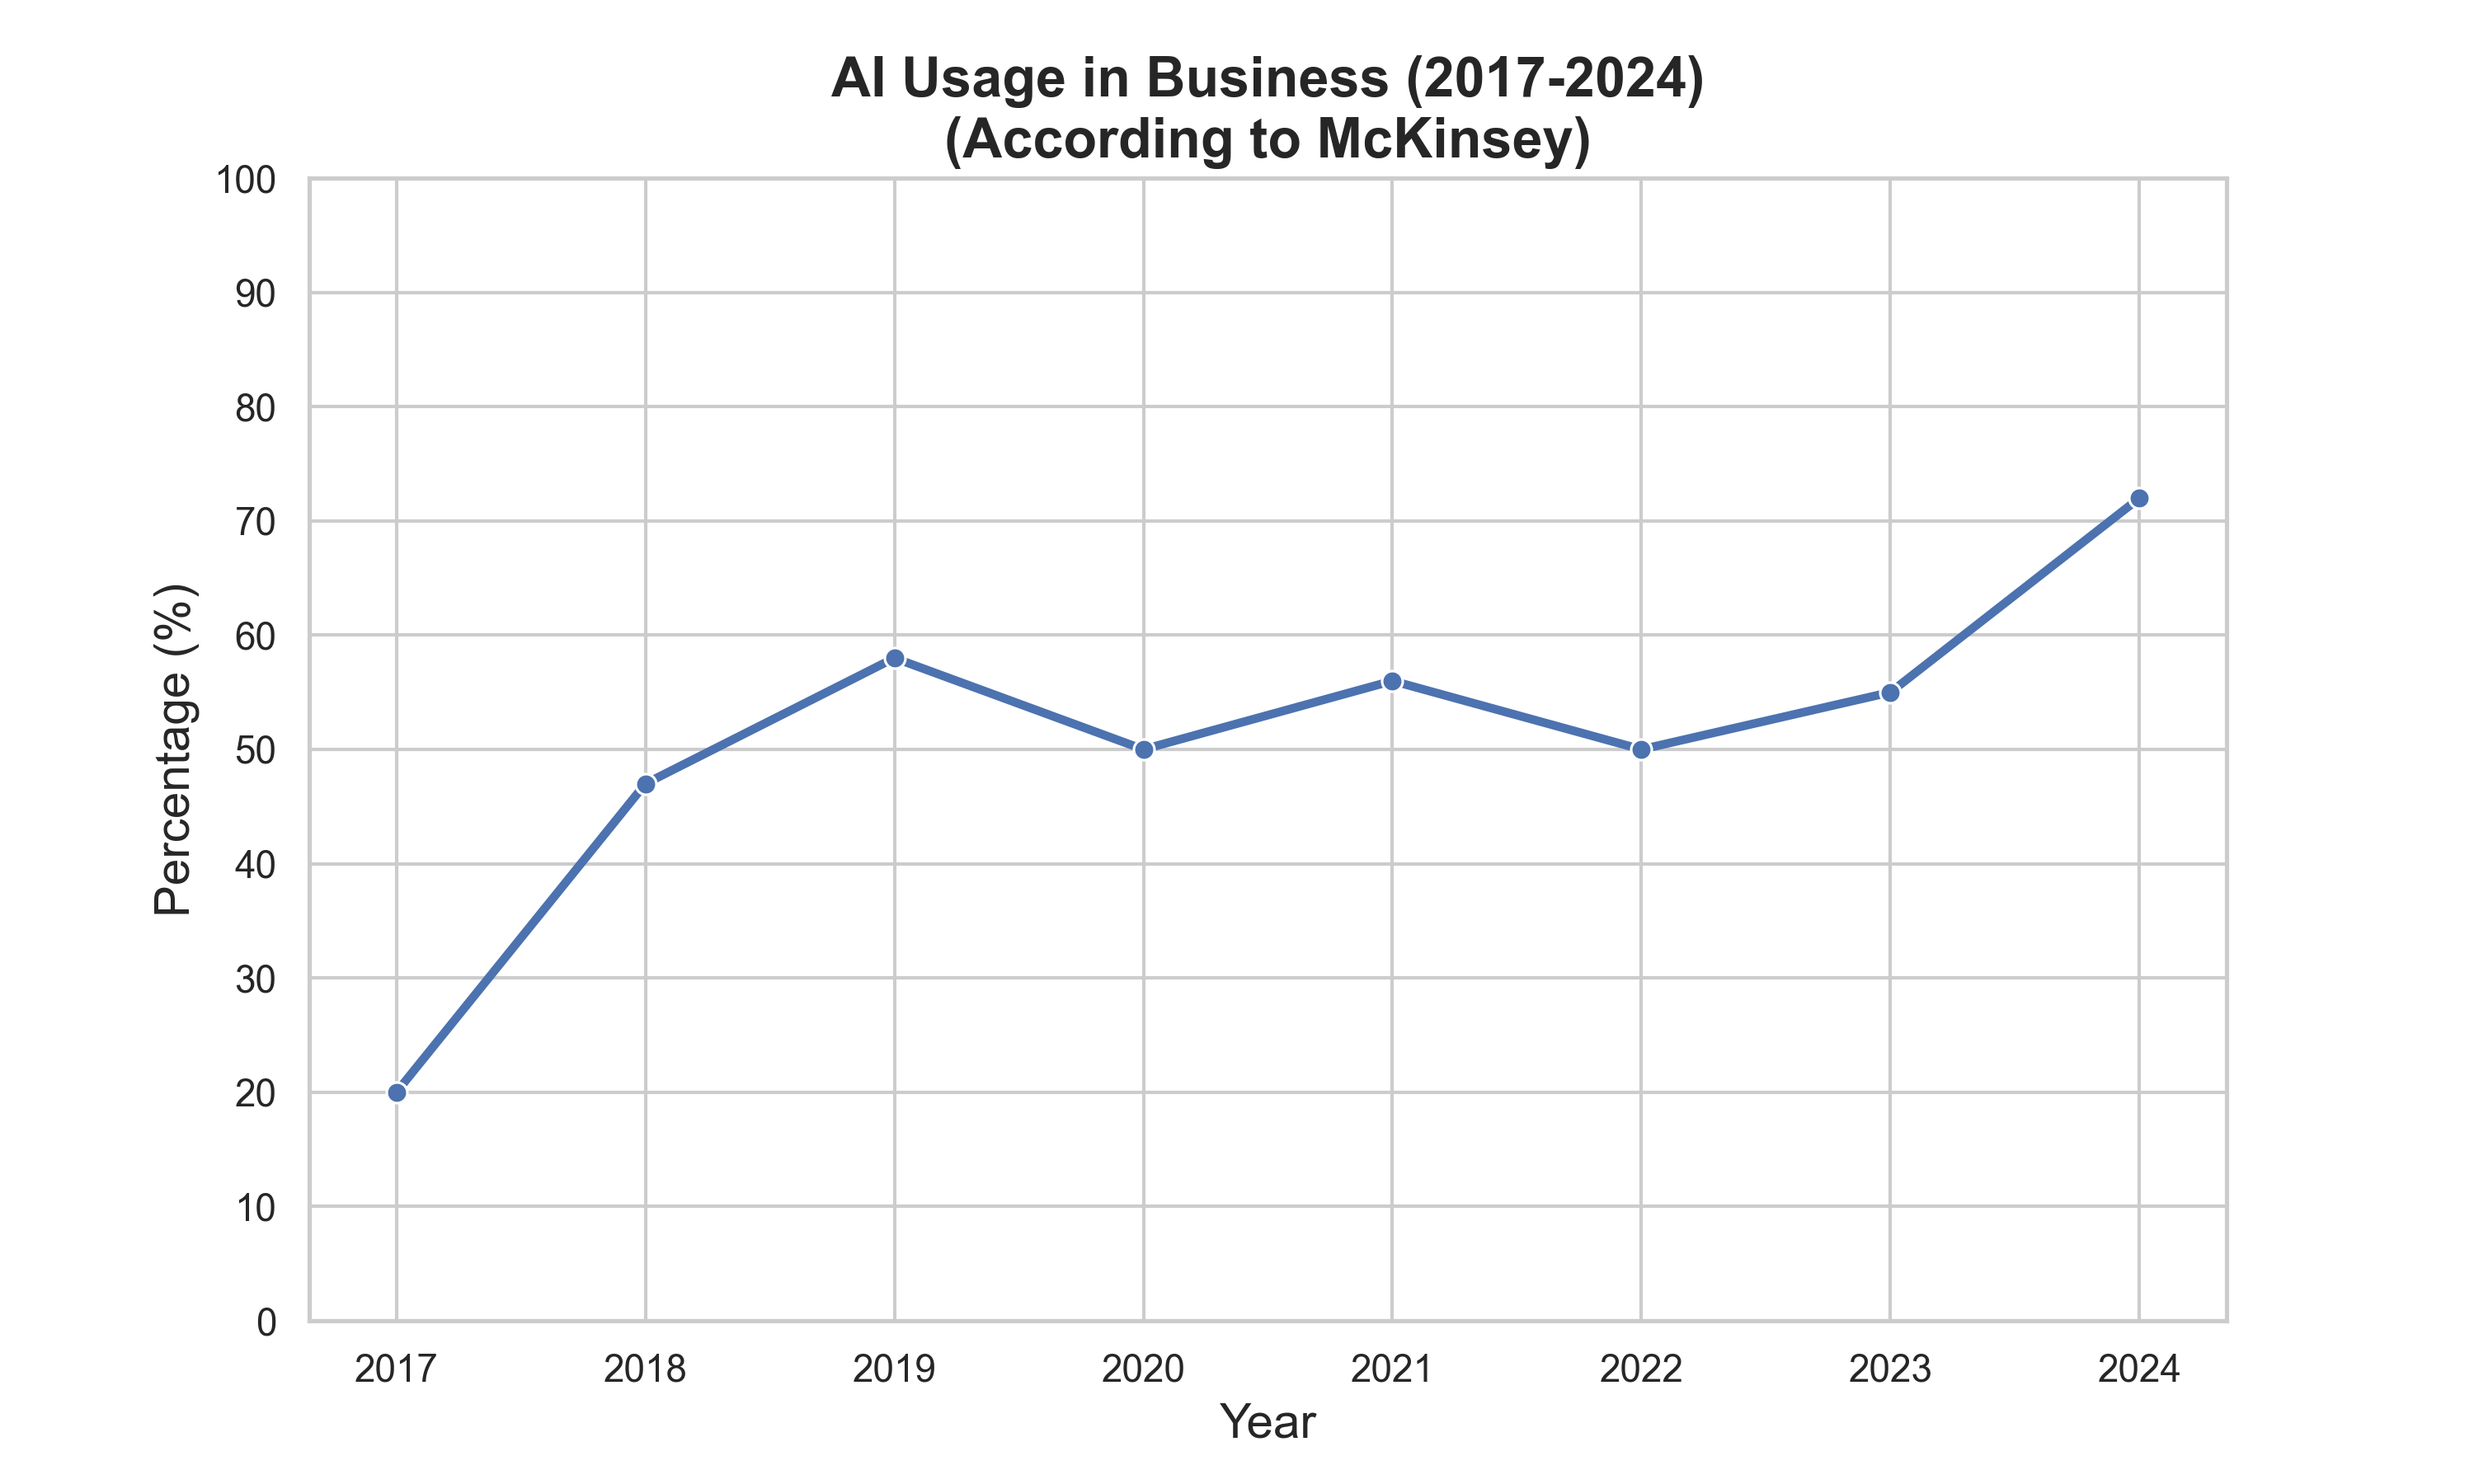
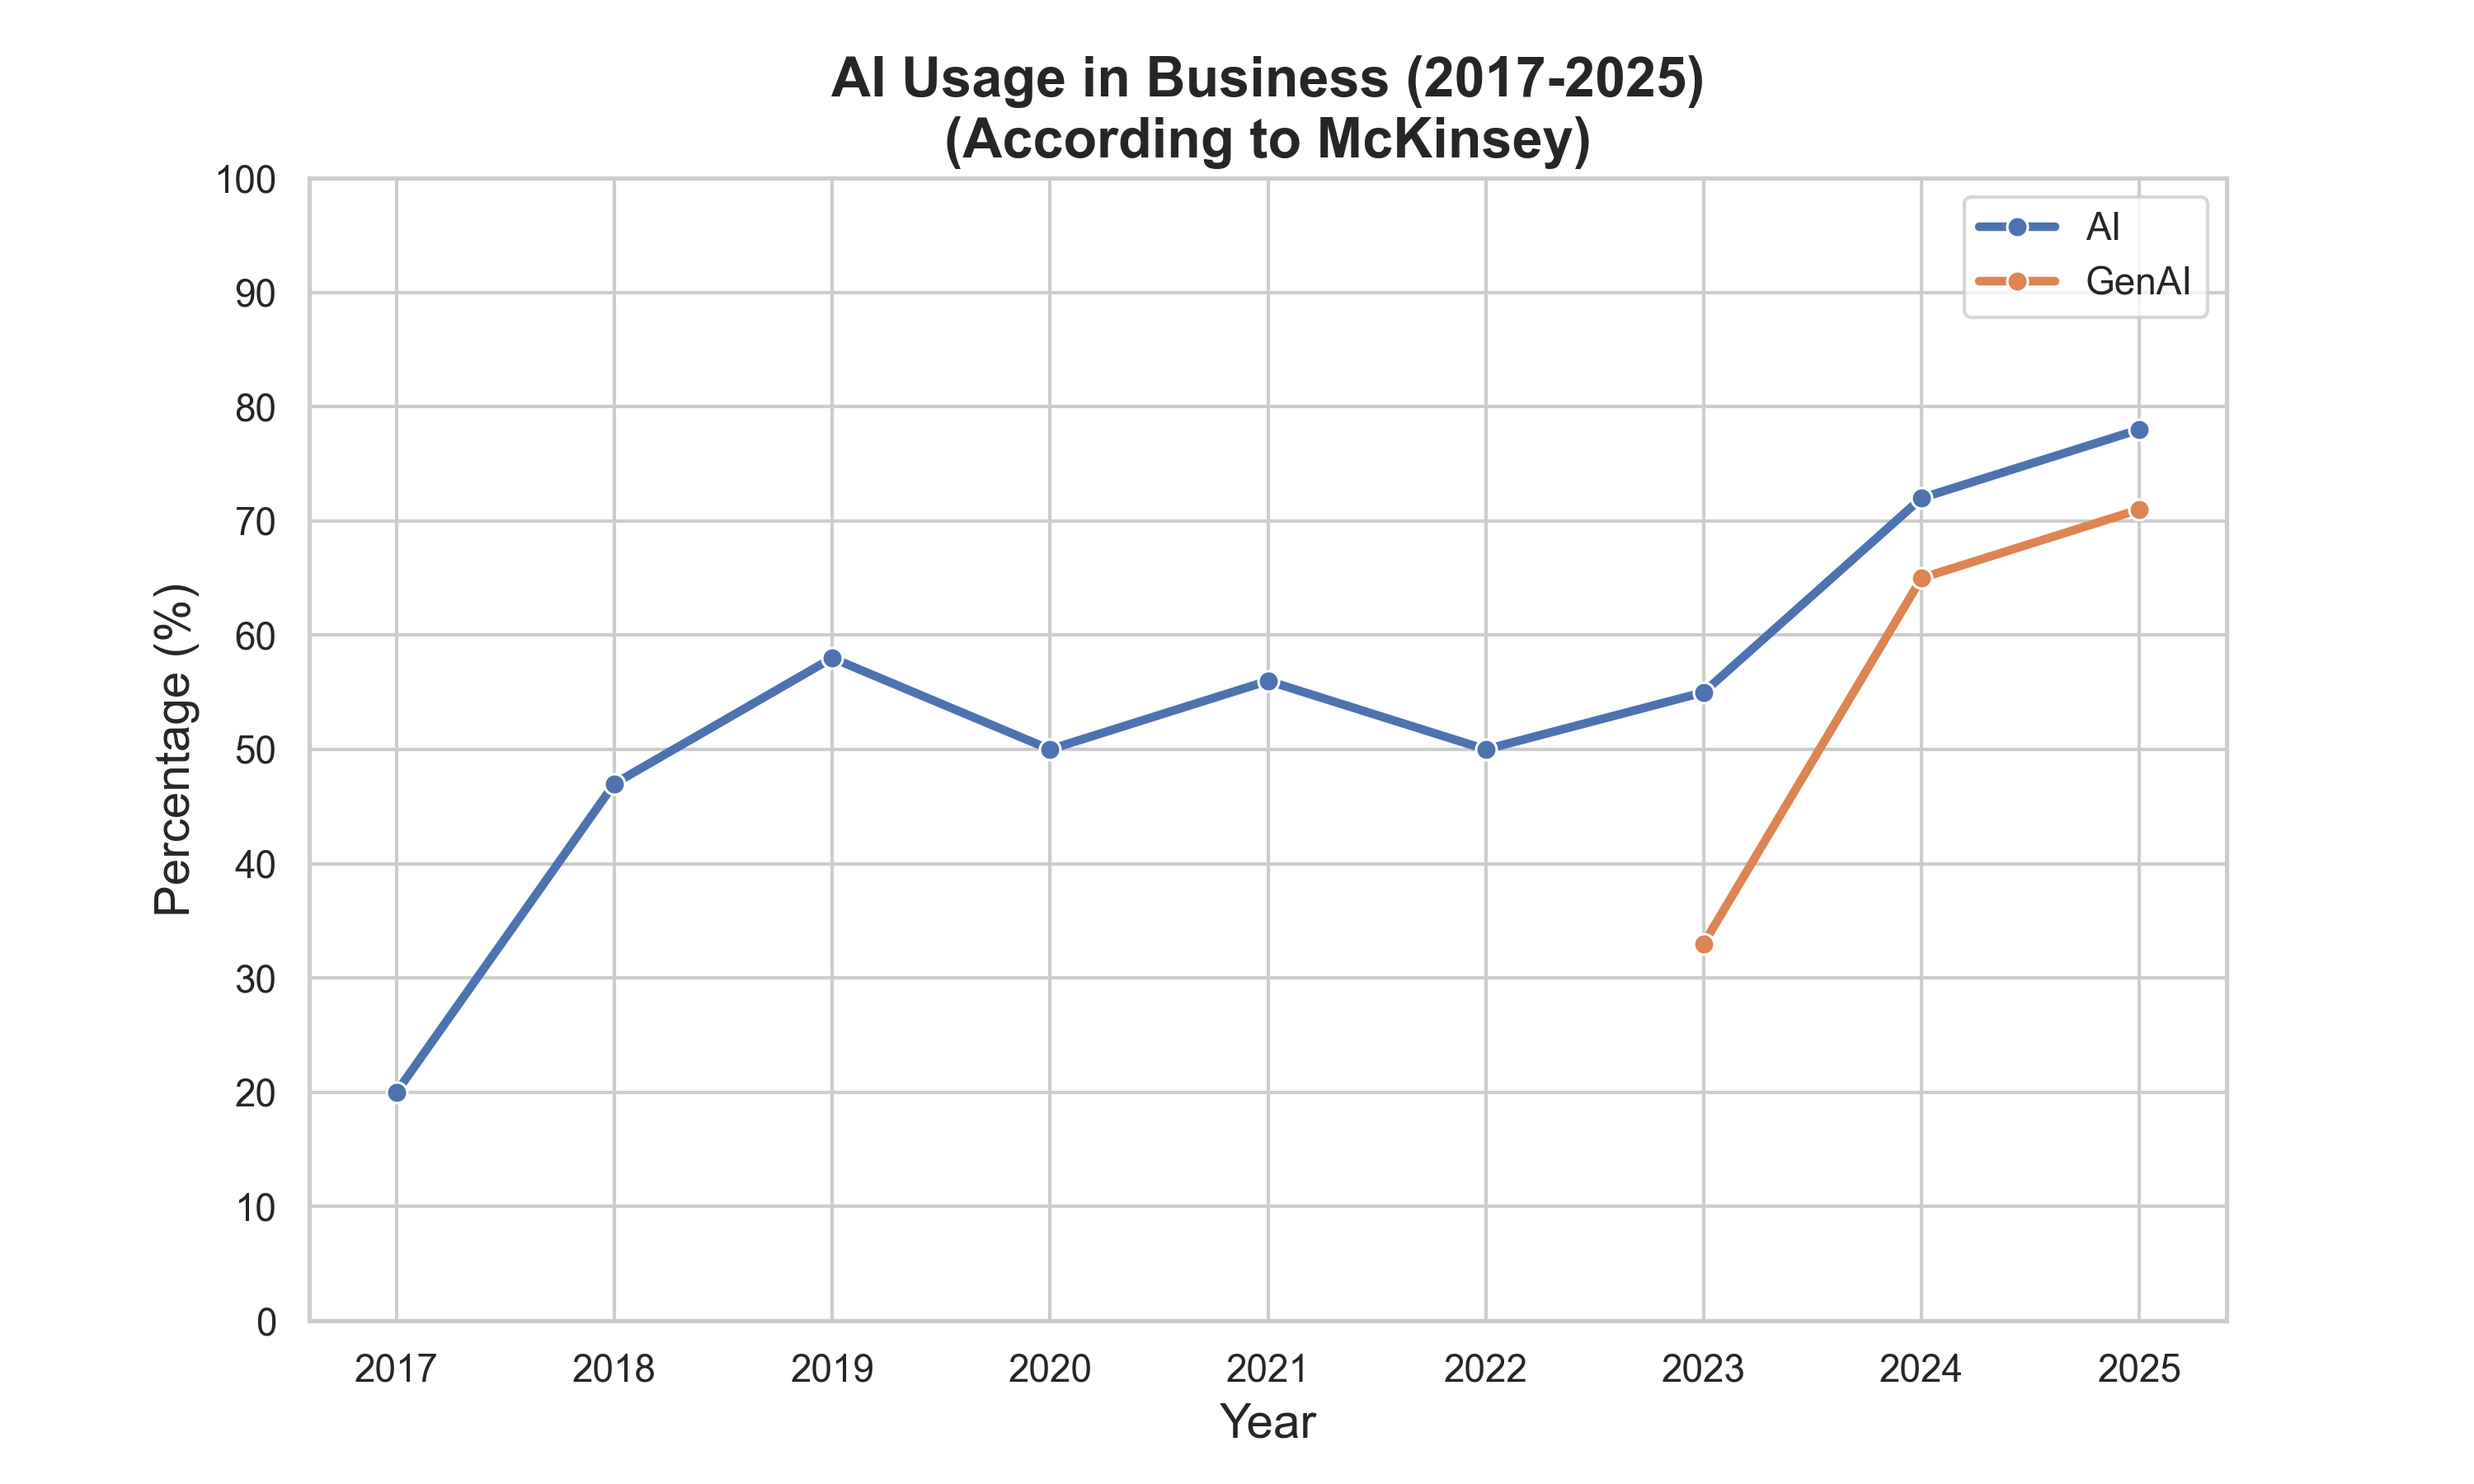
update for 25

diff --git a/ai_usage.py b/ai_usage.py
@@ -3,25 +3,32 @@ import pandas as pd
 import seaborn as sns
 
 # Data
-data = {
-    "Year": [2017, 2018, 2019, 2020, 2021, 2022, 2023, 2024],
-    "Percentage": [20, 47, 58, 50, 56, 50, 55, 72]
+ai_usage = {
+    "Year": [2017, 2018, 2019, 2020, 2021, 2022, 2023, 2024, 2025],
+    "Percentage": [20, 47, 58, 50, 56, 50, 55, 72, 78]
+}
+genai_usage = {
+    "Year": [2023, 2024, 2025],
+    "Percentage": [33, 65, 71]
 }
 
 # Convert to DataFrame
-df = pd.DataFrame(data)
+df_ai = pd.DataFrame(ai_usage)
+df_genai = pd.DataFrame(genai_usage)
 
 # Set Seaborn style
 sns.set_theme(style="whitegrid")
 
 # Create the plot
 plt.figure(figsize=(10, 6))
-sns.lineplot(data=df, x="Year", y="Percentage", marker="o", linewidth=2.5)
+sns.lineplot(data=df_ai, x="Year", y="Percentage", marker="o", linewidth=2.5, label="AI")
+sns.lineplot(data=df_genai, x="Year", y="Percentage", marker="o", linewidth=2.5, label="GenAI")
 
 # Add title and labels
-plt.title("AI Usage in Business (2017-2024)\n(According to McKinsey)", fontsize=16, weight="bold")
+plt.title("AI Usage in Business (2017-2025)\n(According to McKinsey)", fontsize=16, weight="bold")
 plt.xlabel("Year", fontsize=14)
 plt.ylabel("Percentage (%)", fontsize=14)
+plt.legend()
 
 # Customize the y-axis to show percentage
 plt.yticks(range(0, 101, 10))

diff --git a/income_analysis.py b/income_analysis.py
@@ -1,6 +1,5 @@
 import folium
 import geopandas as gpd
-import numpy as np
 import pandas as pd
 
 # Read the income data

diff --git a/income_analysis_net.py b/income_analysis_net.py
@@ -1,6 +1,5 @@
 import folium
 import geopandas as gpd
-import numpy as np
 import pandas as pd
 
 # Read the income data
